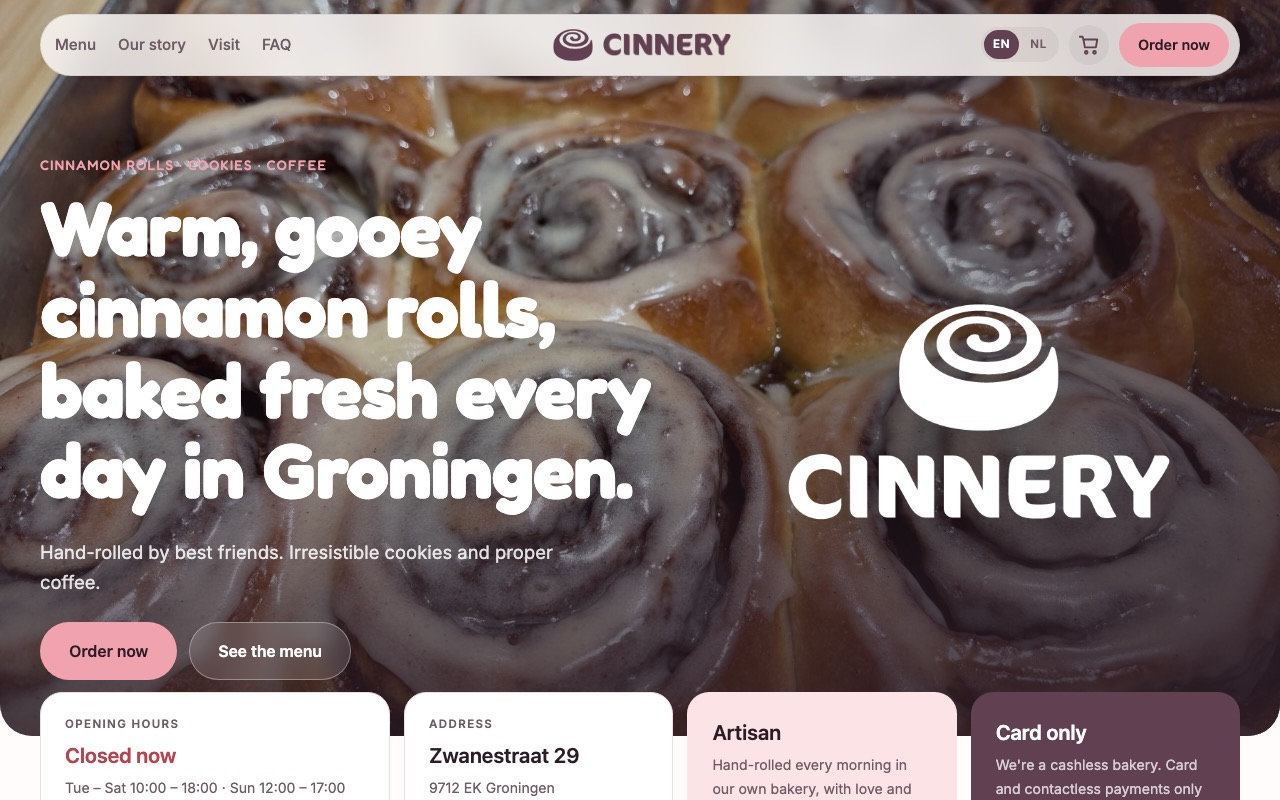
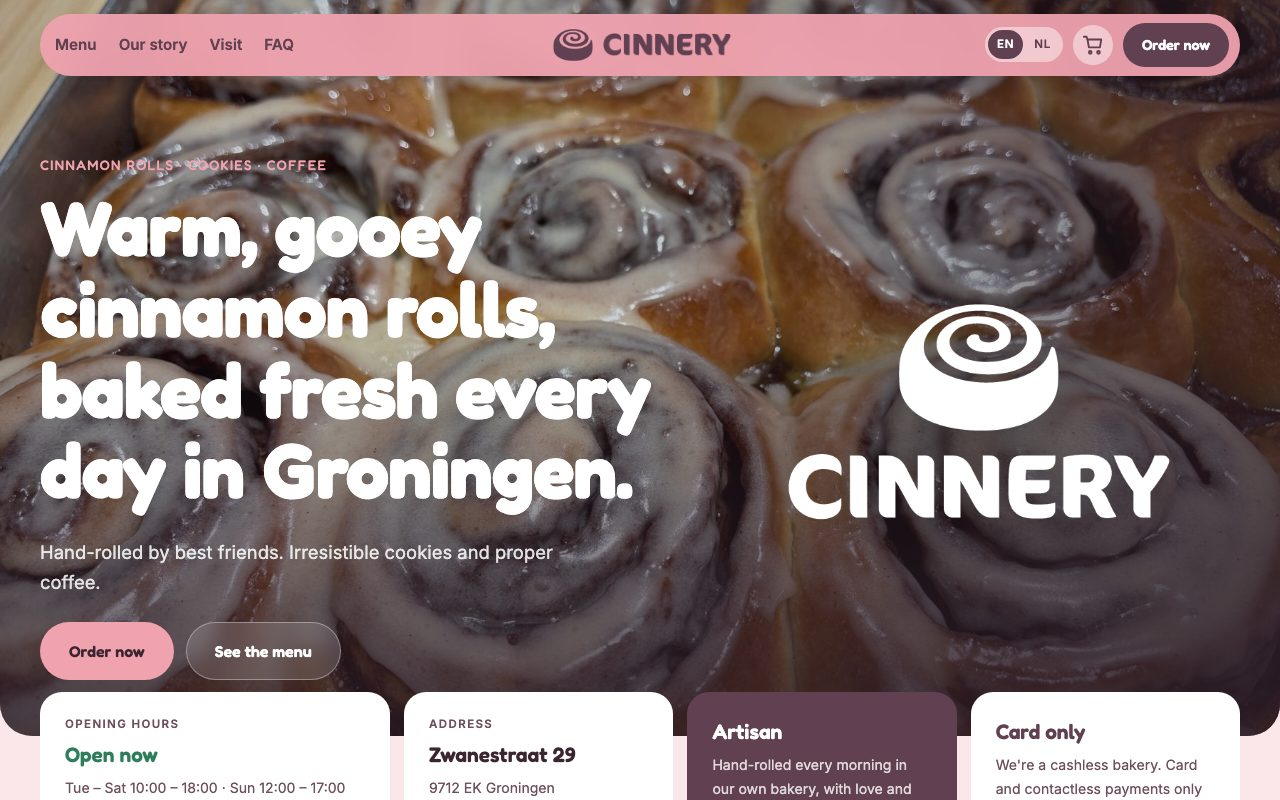
Variant 4: use the pink palette of variant 3

diff --git a/v4/style.css b/v4/style.css
@@ -1,1 +1,54 @@
-/* Variant 4 – the original "Modern" design: everything comes from assets/base.css */
+/* Variant 4 – the original "Modern" layout from assets/base.css with the pink palette of variant 3.
+   Colour overrides only; layout stays as in base.css. */
+:root { --bg: #FBE6E9; --tint: #FFFFFF; --line: rgba(97,64,81,.16); --ink: #3A2530; --ink-2: #6E4F5D; --pink-soft: #F7D3D9; }
+body { background: var(--bg); }
+h1, h2, h3 { color: var(--plum); }
+
+/* header: pink pill */
+.pill { background: rgba(240,163,175,.94); border-color: transparent; }
+.site-nav > a:not(.btn) { color: var(--plum); font-weight: 600; }
+.lang { background: rgba(255,255,255,.45); }
+.lang button { color: var(--plum); }
+.cart-link { background: rgba(255,255,255,.45); }
+.header-right .btn-pink { background: var(--plum); color: #fff; }
+.header-right .btn-pink:hover { background: #4B3040; }
+
+/* facts */
+.cell { background: #fff; border-color: transparent; }
+.cell-pink { background: var(--plum); color: #fff; }
+.cell-pink .cell-sub { color: rgba(255,255,255,.8); }
+.cell-plum { background: #fff; color: var(--ink); }
+.cell-plum strong { color: var(--plum); }
+.cell-plum .cell-sub { color: var(--ink-2); }
+
+/* sections */
+.section-tint { background: #fff; }
+.section-dark { background: var(--plum); }
+.section-dark h2 { color: #fff; }
+.drinks-list { color: var(--plum); }
+
+/* cards */
+.card { border-color: transparent; }
+.section-tint .card { background: var(--bg); }
+.card:hover { box-shadow: 0 16px 36px -26px rgba(97,64,81,.6); }
+
+.order-panel { background: var(--plum); }
+.mini { background: #fff; border-color: transparent; }
+.mini-pink { background: var(--pink); }
+.visit-card { background: var(--bg); border-color: transparent; }
+.map, .map-placeholder { background: var(--bg); }
+.faq summary::after { background: var(--pink); color: var(--plum); }
+
+/* sub pages */
+.summary-box { background: #fff; border-color: transparent; }
+.stepper { border-color: var(--line); }
+.section-tint .price-list a, .price-list a { color: var(--ink); }
+.opt-select { border-color: var(--line); }
+
+/* footer */
+.site-footer { background: var(--plum); }
+.footer-brand { color: var(--pink); }
+
+@media (max-width: 760px) {
+  .pill { background: var(--pink); }
+}
